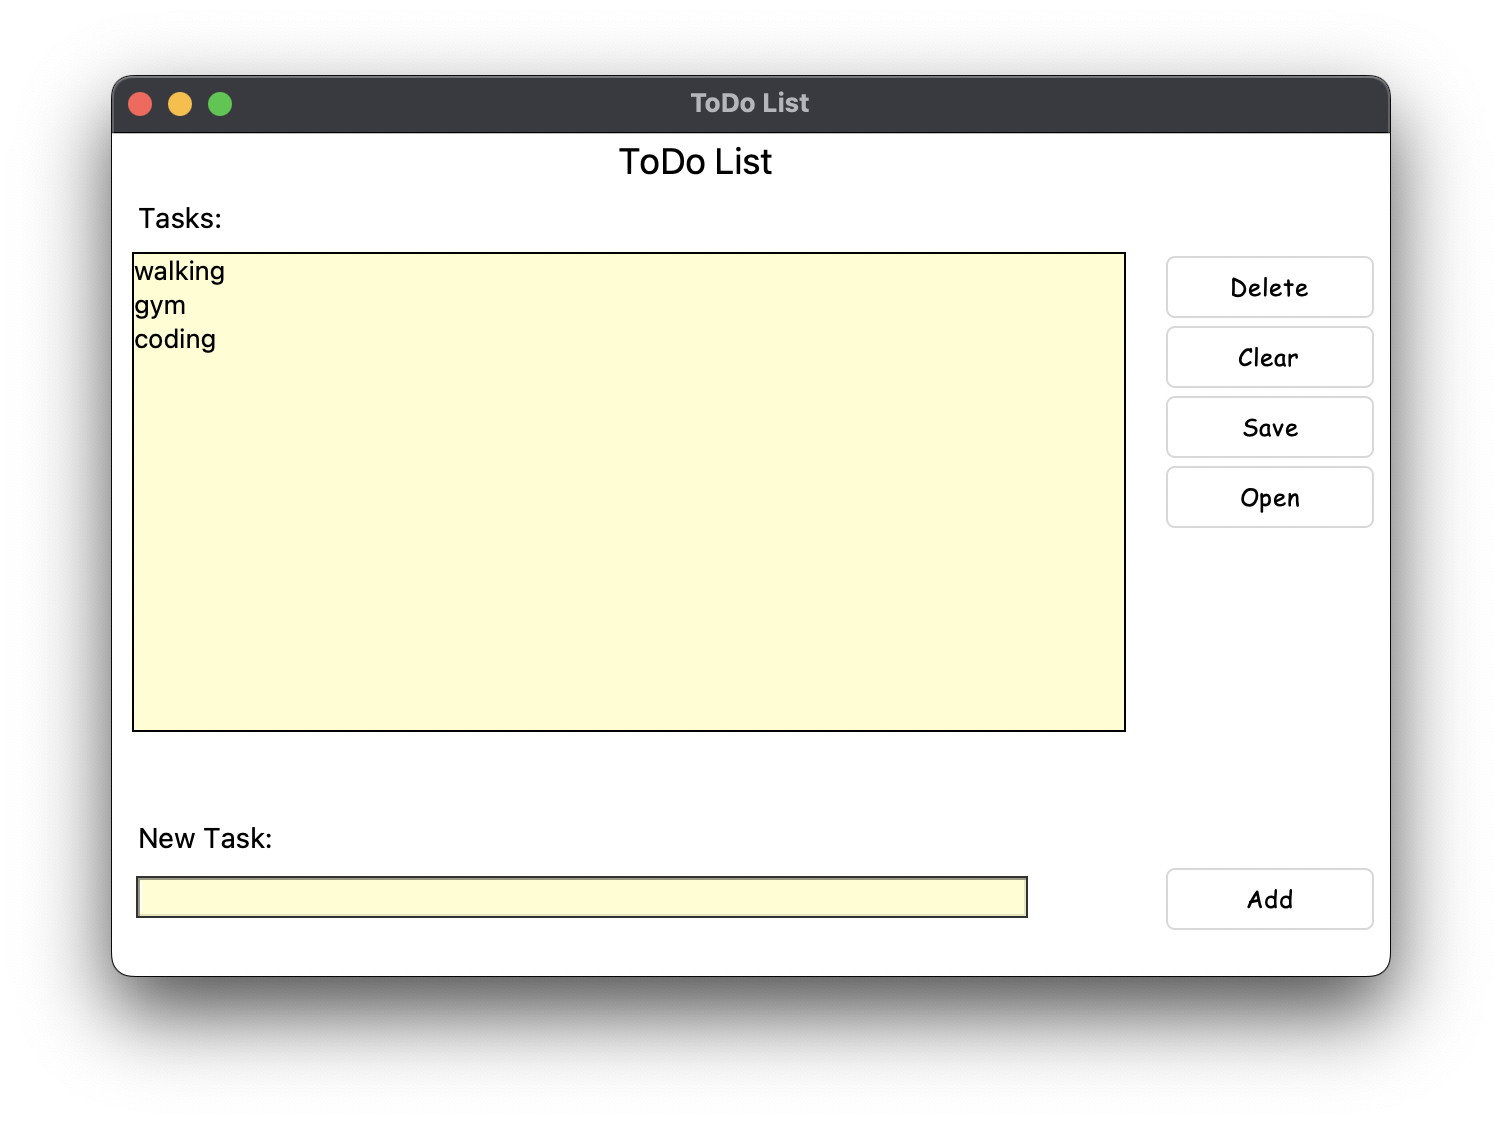
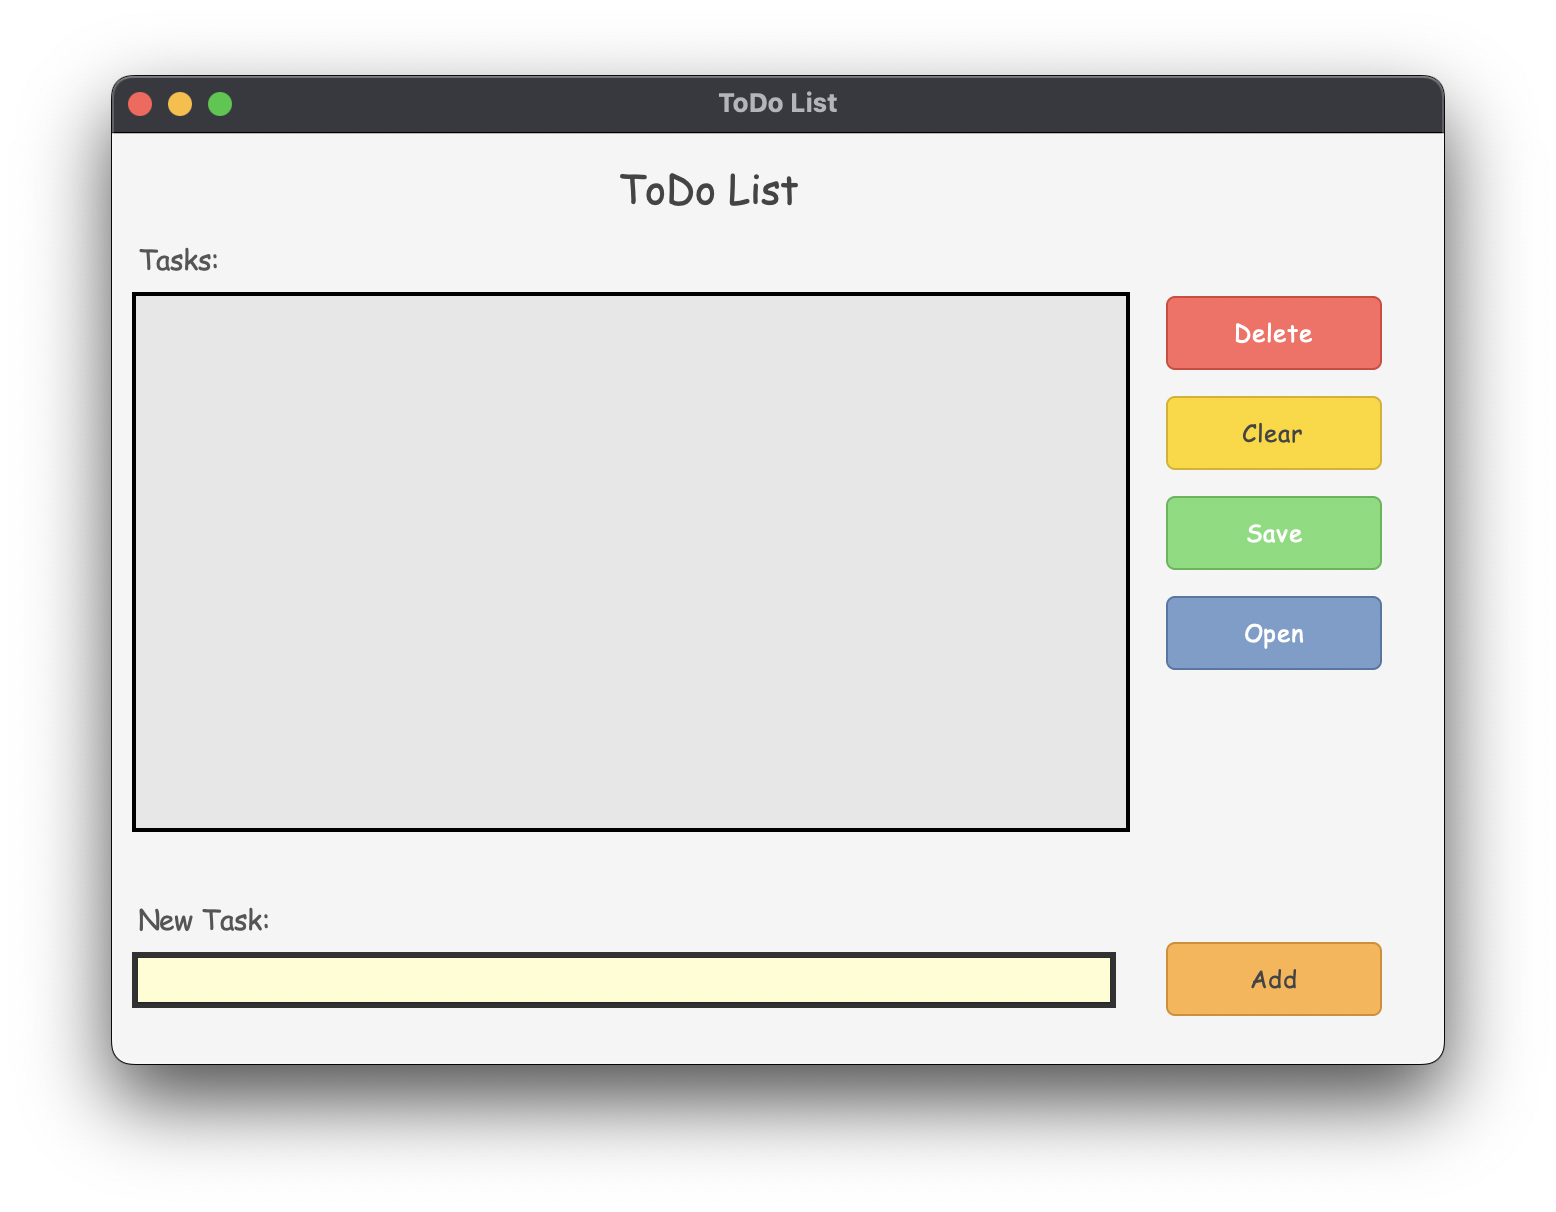
ui/ux change

diff --git a/todo_list.py b/todo_list.py
@@ -5,15 +5,26 @@ from tkinter import PhotoImage
 
 # Initialize main window
 root = Tk()
-root.geometry('639x422')
+root.geometry('666x466')
 root.title('ToDo List')
 root.iconphoto(True, PhotoImage(file='GUI/To-Do-tkinter/todo.png'))
-root['bg'] = '#fff'
+root['bg'] = '#F5F5F5'  # Light pastel gray background
 
 # Function to create a styled button
-def makebt(text, cmd):
-    return Button(root, text=text, command=cmd, bg='#fff', fg='#000', font='ComicSansMS 12',
-                  borderless=1, activebackground='#D3D3D3', activeforeground='#000', padx=10, pady=5)
+def makebt(text, cmd, bg, fg, hover_bg, hover_fg):
+    return Button(
+        root, 
+        text=text, 
+        command=cmd, 
+        bg=bg, 
+        fg=fg, 
+        activebackground=hover_bg, 
+        activeforeground=hover_fg, 
+        font='ComicSansMS 12 bold', 
+        borderless=1, 
+        padx=12, 
+        pady=8
+    )
 
 # Function to add text to list
 def bt_add_press(event=None):
@@ -40,7 +51,7 @@ def bt_save_press():
     with open('saved.txt', 'w') as f:
         for i in text:
             f.write(str(i) + '\n')
-    messagebox.showinfo('Info', 'Saved')
+    messagebox.showinfo('Info', 'Saved Successfully!')
 
 # Function to open list from file
 def bt_open_press():
@@ -50,43 +61,53 @@ def bt_open_press():
             for line in f:
                 l_list.insert(END, line.strip())
     except FileNotFoundError:
-        messagebox.showerror('FileNotFound', 'File "saved.txt" not found in directory')
+        messagebox.showerror('Error', 'File "saved.txt" not found in the directory.')
 
 # ======== Labels ==========
-l_title = Label(root, text='ToDo List', font='ComicSansMs 18', bg='#fff', fg='#000')
-l_title.place(x=250, y=0)
+l_title = Label(root, text='ToDo List', font='ComicSansMS 20 bold', bg='#F5F5F5', fg='#444')
+l_title.place(x=250, y=10)
 
-list_title = Label(root, text='Tasks:', font='ComicSansMs 14', bg='#fff', fg='#000')
-list_title.place(x=10, y=30)
+list_title = Label(root, text='Tasks:', font='ComicSansMS 14', bg='#F5F5F5', fg='#555')
+list_title.place(x=10, y=50)
 
-list_title = Label(root, text='New Task:', font='ComicSansMs 14', bg='#fff', fg='#000')
-list_title.place(x=10, y=340)
+task_title = Label(root, text='New Task:', font='ComicSansMS 14', bg='#F5F5F5', fg='#555')
+task_title.place(x=10, y=380)
 
 # ======== Listbox ==========
-l_list = Listbox(root, width=55, height=14, font='ComicSansMs 13', bg='#FFFDD0', fg='#000',
-                 selectbackground='#D3D3D3', selectforeground='#000')
-l_list.place(x=10, y=60)
+l_list = Listbox(
+    root, 
+    width=55, 
+    height=14, 
+    font='ComicSansMS 13', 
+    bg='#E7E7E7', 
+    fg='#444', 
+    selectbackground='#A6D1E6',  # Light blue for selected
+    selectforeground='#000', 
+    borderwidth=2, 
+    highlightthickness=0
+)
+l_list.place(x=10, y=80)
 
 # ======== Entry ==========
-e_input = Entry(root, width=55, font='ComicSansMs 12', bd=1, bg='#FFFDD0', fg='#000')
-e_input.place(x=10, y=370)
+e_input = Entry(root, width=60, font='ComicSansMS 12', bd=2, bg='#FFFDD0', fg='#444')
+e_input.place(x=10, y=410)
 e_input.bind('<Return>', bt_add_press)  # Bind Enter key to the add function
 
 # ======== Styled Buttons ==========
-bt_delete = makebt('Delete', bt_delete_press)
-bt_delete.place(x=525, y=60)
+bt_delete = makebt('Delete', bt_delete_press, bg='#FF6961', fg='#FFF', hover_bg='#FF3B2F', hover_fg='#FFF')
+bt_delete.place(x=525, y=80)
 
-bt_clear = makebt('Clear', bt_clear_press)
-bt_clear.place(x=525, y=95)
+bt_clear = makebt('Clear', bt_clear_press, bg='#FFD700', fg='#444', hover_bg='#FFC107', hover_fg='#FFF')
+bt_clear.place(x=525, y=130)
 
-bt_save = makebt('Save', bt_save_press)
-bt_save.place(x=525, y=130)
+bt_save = makebt('Save', bt_save_press, bg='#77DD77', fg='#FFF', hover_bg='#44CC44', hover_fg='#FFF')
+bt_save.place(x=525, y=180)
 
-bt_open = makebt('Open', bt_open_press)
-bt_open.place(x=525, y=165)
+bt_open = makebt('Open', bt_open_press, bg='#779ECB', fg='#FFF', hover_bg='#4682B4', hover_fg='#FFF')
+bt_open.place(x=525, y=230)
 
-bt_add = makebt('Add', bt_add_press)
-bt_add.place(x=525, y=366)
+bt_add = makebt('Add', bt_add_press, bg='#FFB347', fg='#444', hover_bg='#FF914D', hover_fg='#FFF')
+bt_add.place(x=525, y=403)
 
 # Run the main loop
 root.mainloop()
